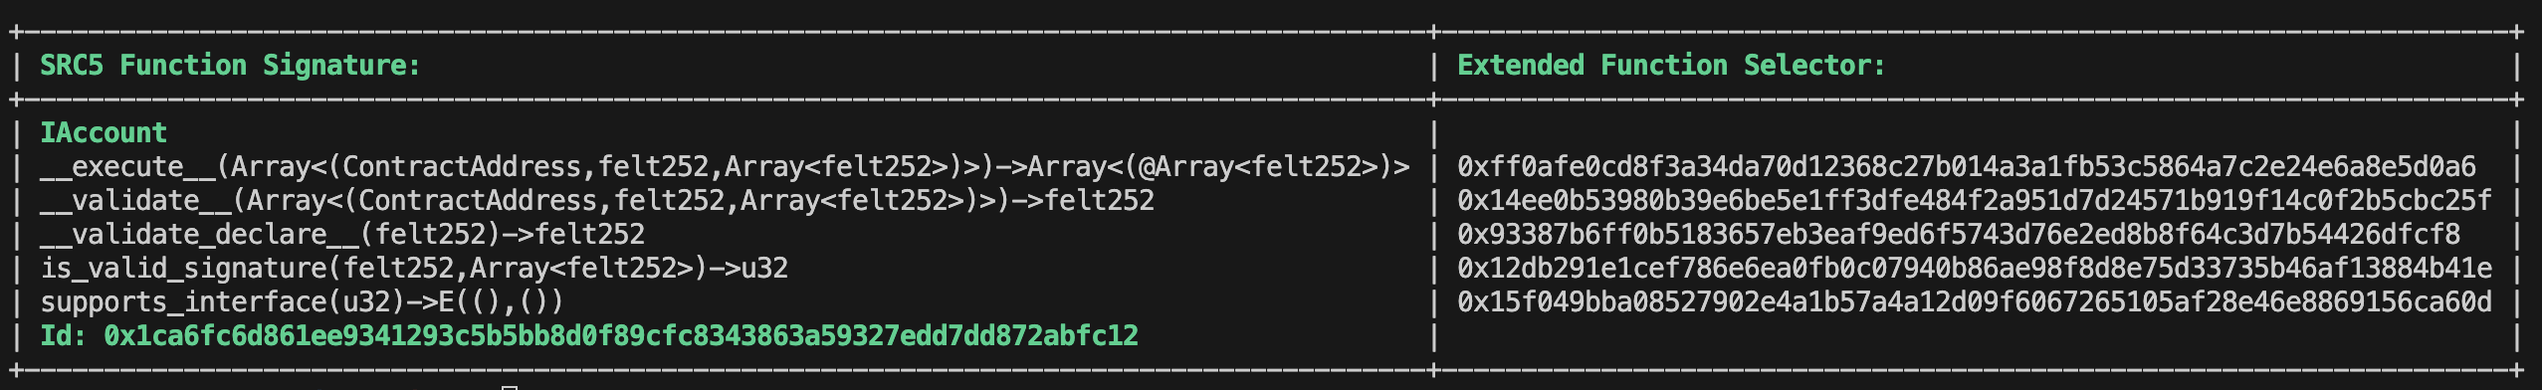
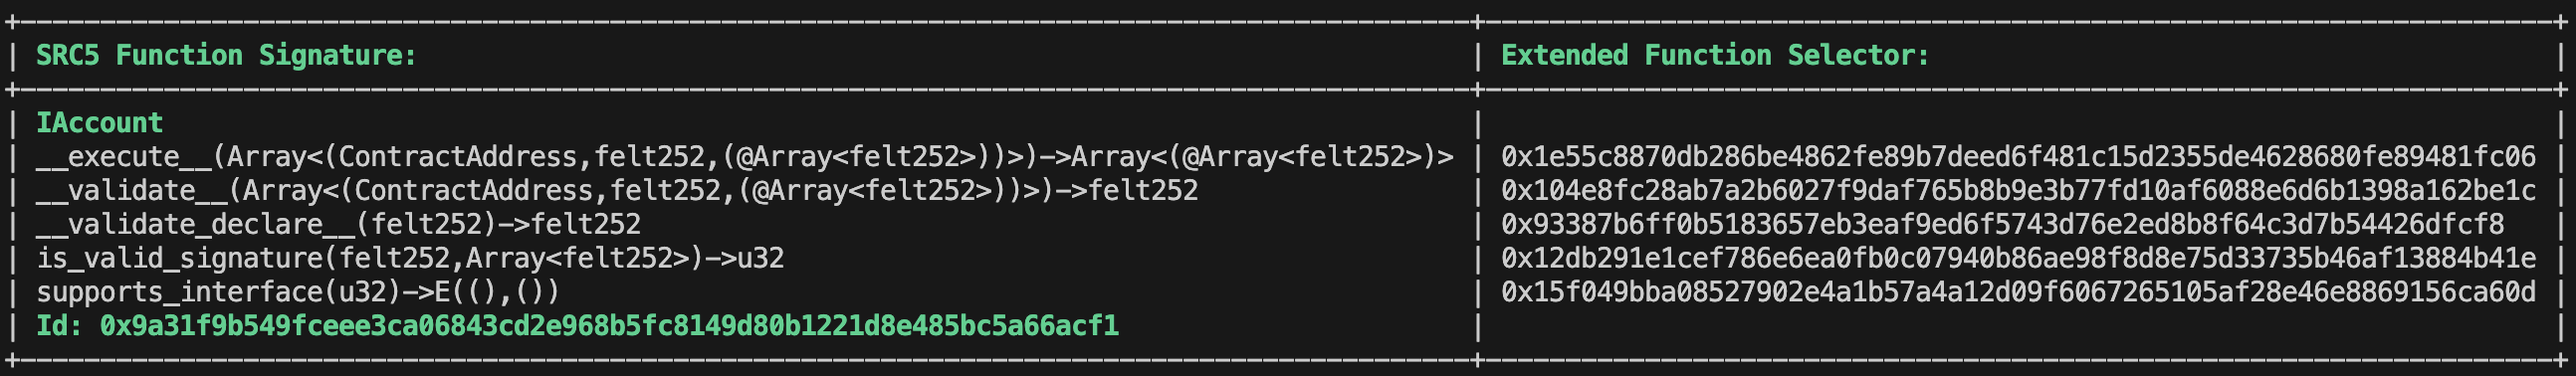
feat: update corelib structs

diff --git a/src/src5_rs/core/parser/cairo_struct.rs b/src/src5_rs/core/parser/cairo_struct.rs
@@ -73,7 +73,7 @@ struct Span<T> {
 struct Call {
     to: ContractAddress,
     selector: felt252,
-    calldata: Array<felt252>
+    calldata: Span<felt252>
 }
 struct EthAddress {
     address: felt252,
@@ -114,5 +114,10 @@ struct PoseidonBuiltinState {
     s0: felt252,
     s1: felt252,
     s2: felt252,
+}
+struct ByteArray {
+    data: Array<bytes31>,
+    pending_word: felt252,
+    pending_word_len: usize,
 }
 ";

diff --git a/src/src5_rs/core/parser/cairo_base_type.rs b/src/src5_rs/core/parser/cairo_base_type.rs
@@ -6,8 +6,12 @@ pub struct CairoBaseType {
     pub generics: Vec<String>,
 }
 
-pub fn get_cairo_base_types() -> [CairoBaseType; 39] {
+pub fn get_cairo_base_types() -> [CairoBaseType; 40] {
     [
+        CairoBaseType {
+            name: "bytes31".into(),
+            generics: Vec::new(),
+        },
         CairoBaseType {
             name: "felt252".into(),
             generics: Vec::new(),
